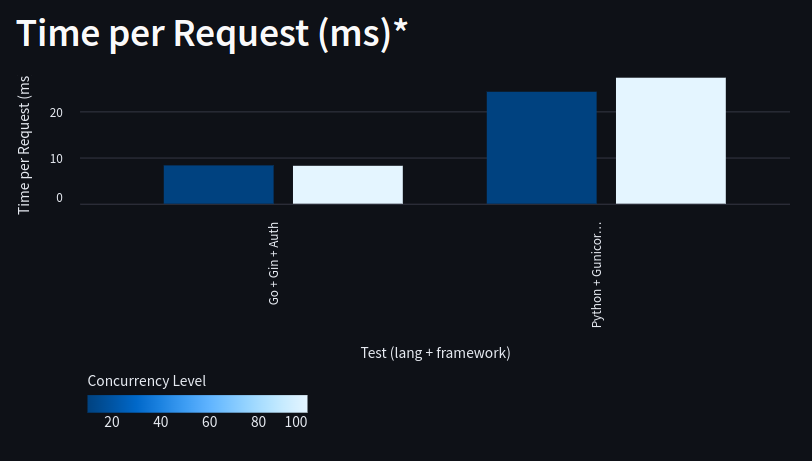
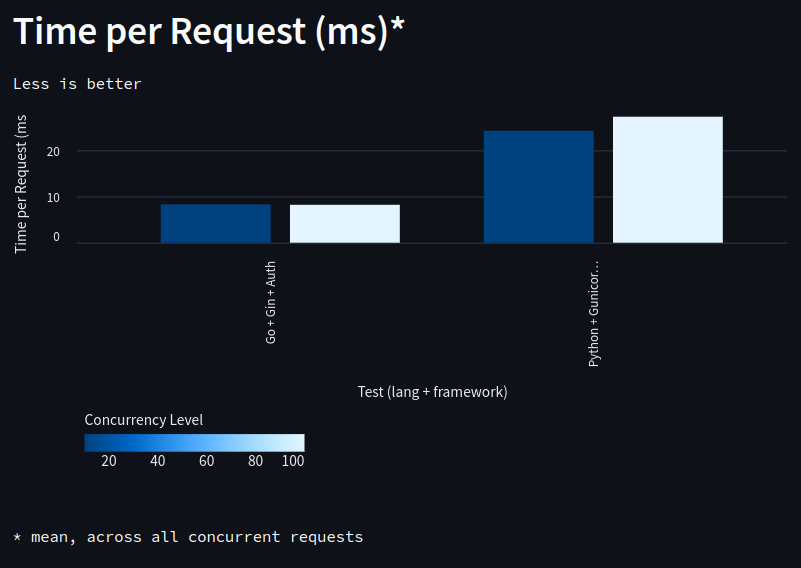
v0.2.0

diff --git a/analysis/pages/Charts_auth.py b/analysis/pages/Charts_auth.py
@@ -22,6 +22,7 @@ def page():
     # Bar chart - Failed Requests
 
     st.markdown("## Failed Requests")
+    st.text("Less is better")
     # st.bar_chart(
     #     data=df, 
     #     x="Test (lang + framework)", 
@@ -37,6 +38,7 @@ def page():
     # Bar chart - Requests per Second
 
     st.markdown("## Requests per Second")
+    st.text("More is better")
     st.bar_chart(
         data=df, 
         x="Test (lang + framework)", 
@@ -52,6 +54,7 @@ def page():
     # Bar chart - Time per Request (ms)*
 
     st.markdown("## Time per Request (ms)*")
+    st.text("Less is better")
     st.bar_chart(
         data=df, 
         x="Test (lang + framework)", 
@@ -68,6 +71,7 @@ def page():
     # Bar chart - Transfer Rate (Kbytes/sec)
 
     st.markdown("## Transfer Rate (Kbytes/sec)")
+    st.text("More is better")
     st.bar_chart(
         data=df, 
         x="Test (lang + framework)", 
@@ -82,6 +86,7 @@ def page():
     # Bar chart - Total Time Taken (s)
 
     st.markdown("## Total Time Taken (s)")
+    st.text("Less is better")
     st.bar_chart(
         data=df, 
         x="Test (lang + framework)", 

diff --git a/README.md b/README.md
@@ -122,66 +122,29 @@ Basic Apache ab commands:
 
 - -c: Number of multiple requests to make at a time
 
-Concurrency: 100
+The tests are performed with this configuration:
 
-- Golang
+- Simple response:
+
+1. -n 100000 -c 100
+
+2. -n 100000 -c 1000
+
+- With authentication:
+
+1. -n 1000 -c 10
+
+2. -n 1000 -c 100
+
+
+Example:
+
+- Golang (show results in the terminal)
 ```bash
-ab -n 100000 -c 100 http://localhost:8080/ >> Go_test.txt
+ab -n 100000 -c 100 http://localhost:8080/ 
 ```
 
-- Golang + Chi
-```bash
-ab -n 100000 -c 100 http://localhost:8090/ >> Go_chi_test.txt
-```
-
-- Golang + Gin + Auth
-```bash
-ab -n 100000 -c 100 http://localhost:8080/ >> Go_test.txt
-```
-
-- Python + Flask
-```bash
-ab -n 100000 -c 100 http://localhost:8100/ >> Python_test.txt
-```
-
-- Python + Flask + Gunicorn
-```bash
-ab -n 100000 -c 100 http://localhost:8110/ >> Python_gunicorn_test.txt
-```
-
-- Python + Flask + Gunicorn + Auth
-```bash
-ab -n 100000 -c 100 http://localhost:8110/ >> Python_gunicorn_test.txt
-```
-
-Concurrency: 1000
-
-- Golang
+- Golang (save results to a file)
 ```bash
 ab -n 100000 -c 1000 http://localhost:8080/ >> Go_test.txt
-```
-
-- Golang + Chi
-```bash
-ab -n 100000 -c 1000 http://localhost:8090/ >> Go_chi_test.txt
-```
-
-- Golang + Gin + Auth
-```bash
-ab -n 100000 -c 1000 http://localhost:8080/ >> Go_test.txt
-```
-
-- Python + Flask
-```bash
-ab -n 100000 -c 1000 http://localhost:8100/ >> Python_test.txt
-```
-
-- Python + Flask + Gunicorn
-```bash
-ab -n 100000 -c 1000 http://localhost:8110/ >> Python_gunicorn_test.txt
-```
-
-- Python + Flask + Gunicorn + Auth
-```bash
-ab -n 100000 -c 1000 http://localhost:8110/ >> Python_gunicorn_test.txt
 ```
